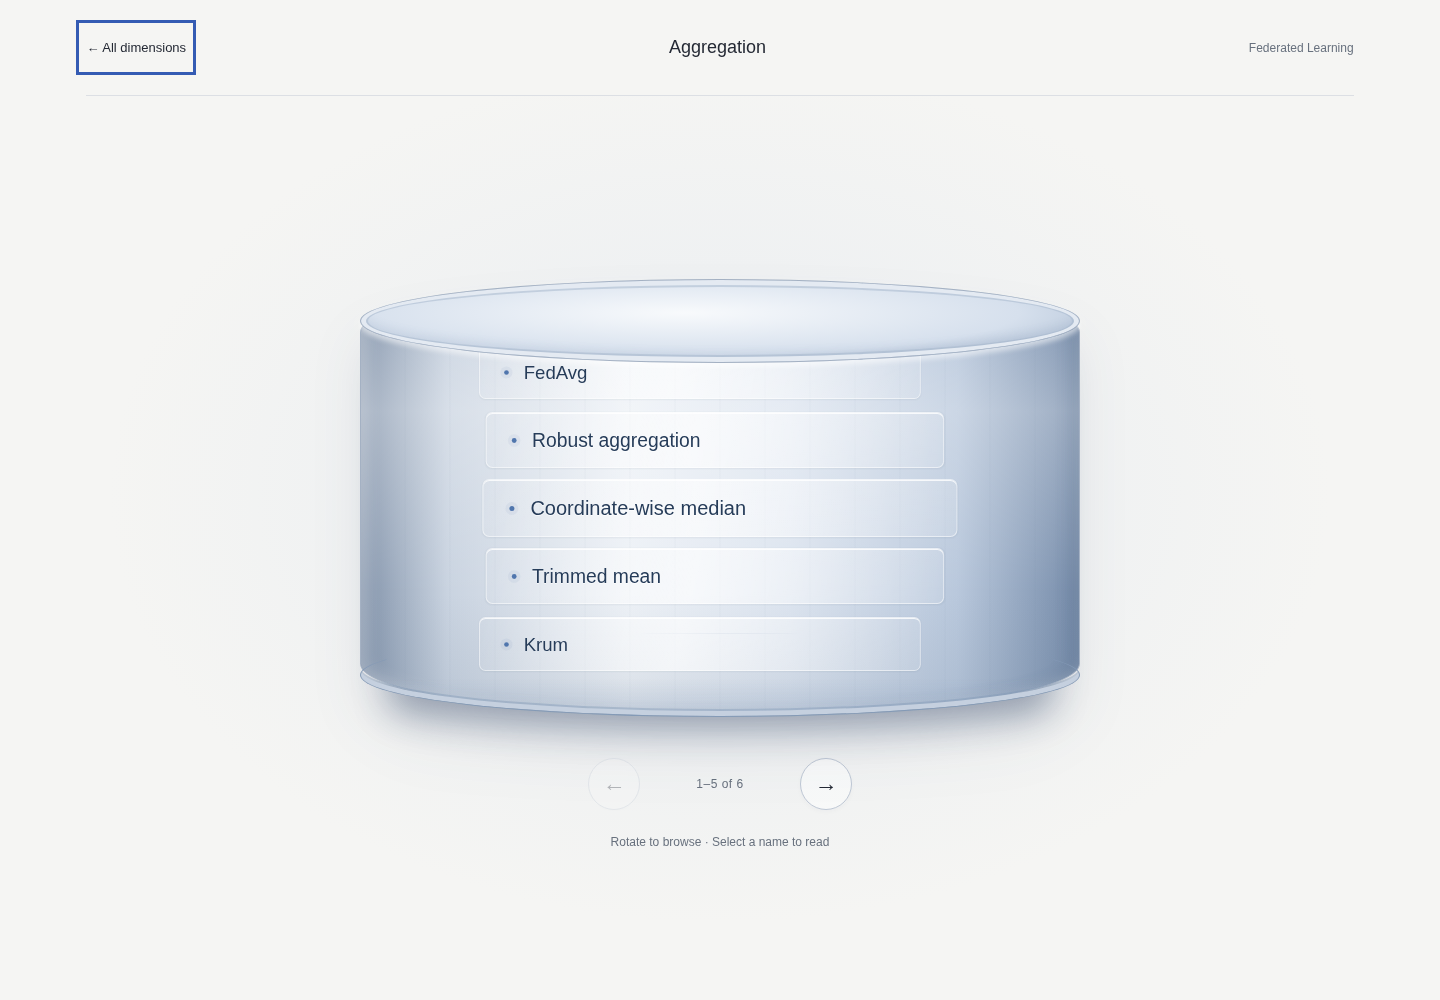
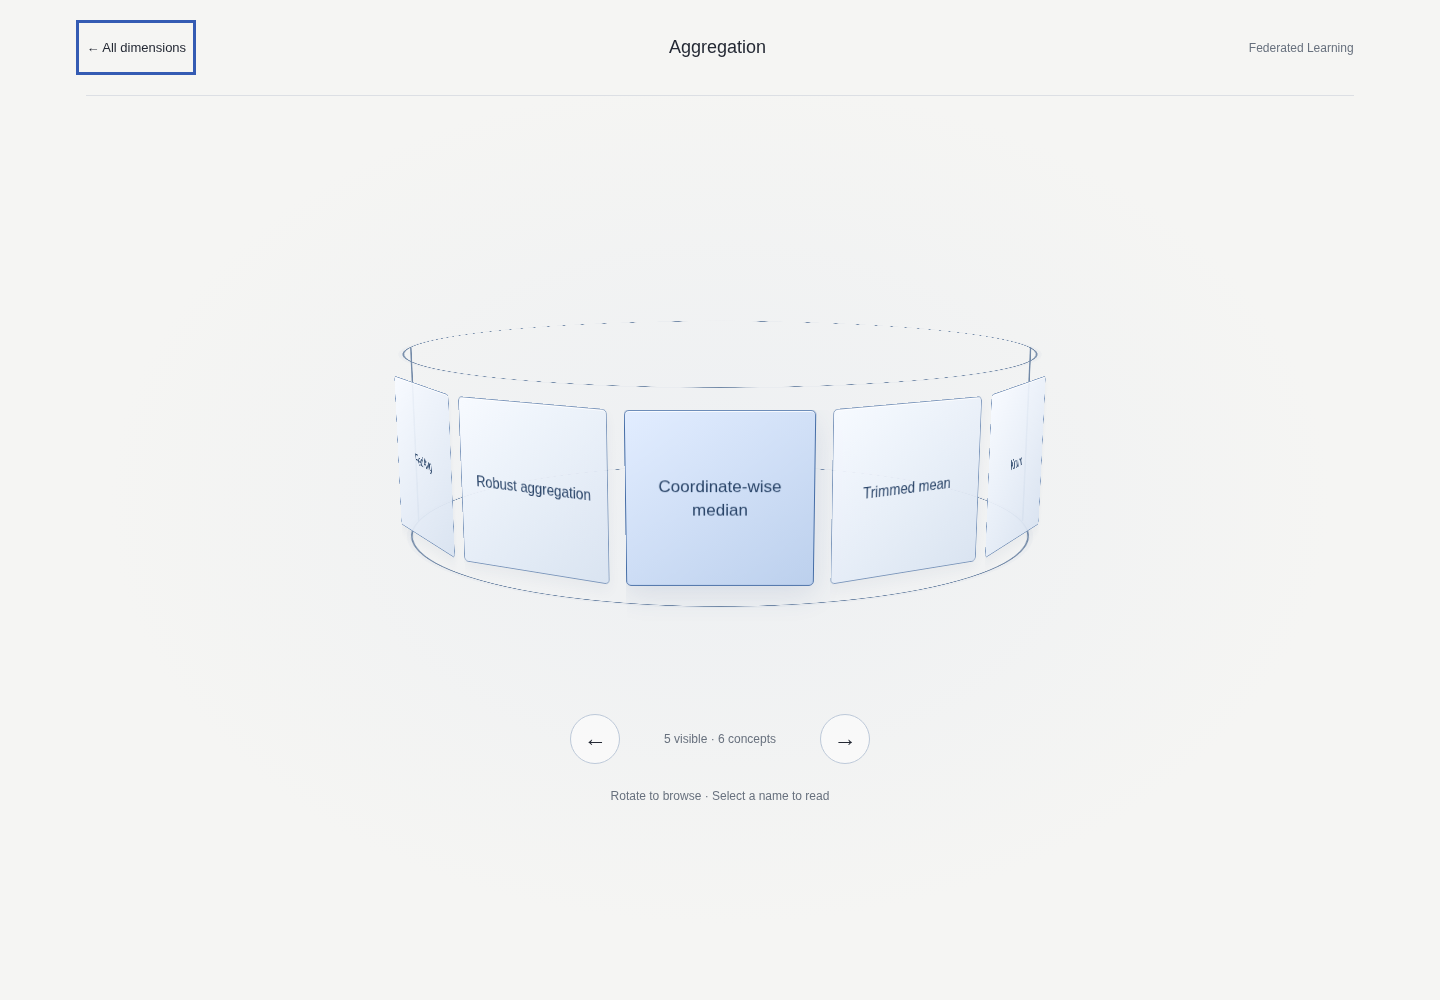
Use horizontal 3D ring carousel with outlined cylinder

Changed region(s): [[0.25, 0.279, 0.75, 0.806], [0.4375, 0.837, 0.5625, 0.868]]

diff --git a/website/docs/assets/atlas.css b/website/docs/assets/atlas.css
@@ -3,43 +3,23 @@
 @media(max-width:1350px){footer{margin:0 6%}.home{gap:6%}.layer{height:78px}}
 @media(max-width:760px){.masthead{height:76px}.edition{display:none}.home{grid-template-columns:1fr;padding:36px 6%;gap:30px}.home-copy{display:contents}.home-copy>.eyebrow{order:0}.intro{order:1}.intro h1{font-size:36px;margin-top:0}.intro p{font-size:14px}.object-area{order:2;height:470px;margin-top:5px}.feature-panel{order:3;max-width:none;margin-top:0;min-height:0}.cylinder{width:290px}.layer{height:65px;padding-left:23px;padding-right:23px}.layer:before{height:30px}.layer-name{font-size:12px}.object-base{width:250px;bottom:55px}.object-heading{padding-bottom:12px}.object-caption{font-size:10px}.document-page{padding:28px 6% 50px}.document-page article h1{font-size:34px}.document-page article{font-size:15px}.breadcrumbs{margin-bottom:32px}footer{margin:15px 6% 0;padding:22px 0;gap:8px}.brand{font-size:11px;gap:8px}.home-link{font-size:11px}}
 @media(prefers-reduced-motion:reduce){*,*:before,*:after{animation:none!important;transition:none!important;scroll-behavior:auto!important}}
-/* A selected layer expands into a full-screen cylinder with rotating labels. */
+/* Horizontal 3D ring carousel, with a wireframe cylinder enclosure. */
 .masthead .brand{font-size:19px;font-weight:500;letter-spacing:-.3px}
-#dimension-view{position:fixed;inset:0;width:100vw;height:100dvh;max-width:none;max-height:none;margin:0;padding:0;border:0;background:var(--bg);color:var(--ink);overflow:auto}
-#dimension-view::backdrop{background:var(--bg)}
-body.dimension-open{overflow:hidden}
+#dimension-view{position:fixed;inset:0;width:100vw;height:100dvh;max-width:none;max-height:none;margin:0;padding:0;border:0;background:var(--bg);color:var(--ink);overflow-x:hidden;overflow-y:auto}
+#dimension-view::backdrop{background:var(--bg)}body.dimension-open{overflow:hidden}
 .dimension-toolbar{height:96px;margin:0 6%;display:flex;align-items:center;justify-content:space-between;gap:20px;border-bottom:1px solid var(--line)}
-.dimension-toolbar button{padding:10px 0;border:0;background:transparent;color:var(--ink);font-size:13px}
-.dimension-toolbar h2{font-size:18px;font-weight:500;margin:0}
-.dimension-toolbar>span{font-size:12px;color:var(--muted)}
-.dimension-content{min-height:calc(100dvh - 96px);display:flex;flex-direction:column;align-items:center;justify-content:center;padding:60px 20px 75px}
-.drum-perspective{perspective:1400px;width:min(640px,76vw);height:360px}
-.drum-world{position:relative;width:100%;height:100%;transform-style:preserve-3d;--radius:280px}
-.drum-shell{position:absolute;inset:50px 0;background:linear-gradient(90deg,#496b9c,#91acd3 24%,#b9cae4 49%,#8da9d0 75%,#456795);border:1px solid #6f8db7;border-radius:50% / 14%;box-shadow:0 40px 50px -35px #263c6380,inset 0 -25px 35px #30527e22}
-.drum-shell:before,.drum-shell:after{content:'';position:absolute;left:-1px;right:-1px;height:70px;border:1px solid #6f8db7;border-radius:50%}
-.drum-shell:before{top:-1px;background:linear-gradient(140deg,#cfdbec,#8da9cf);z-index:1}
-.drum-shell:after{bottom:-1px;border-top-color:transparent;box-shadow:inset 0 -12px 20px #456b9520}
-.concept-rotor{position:absolute;inset:0;transform-style:preserve-3d;transition:transform 1s cubic-bezier(.22,.75,.2,1)}
-.rotating-concept{position:absolute;left:50%;top:52%;width:80%;text-align:center;transform:translate(-50%,-50%) rotateY(var(--angle)) translateZ(var(--radius));backface-visibility:hidden;text-decoration:none;font-size:clamp(22px,3.2vw,42px);font-weight:500;letter-spacing:-.8px;line-height:1.25;color:#1b3254;text-shadow:0 1px 0 #ffffff66;pointer-events:none}
-.rotating-concept.current{pointer-events:auto}.rotating-concept:hover{text-decoration:underline;text-underline-offset:8px}
-.rotor-rib{position:absolute;left:50%;top:32%;width:1px;height:43%;background:#36557f18;transform:rotateY(var(--angle)) translateZ(var(--radius));backface-visibility:hidden;pointer-events:none}
-.rotation-controls{display:flex;align-items:center;gap:35px;margin-top:20px}
-.rotation-controls button{width:52px;height:52px;border-radius:50%;border:1px solid #bfc8d5;background:transparent;color:var(--ink);font-size:23px;transition:background .2s}
-.rotation-controls button:hover{background:#e4e9f0}.rotation-controls button:disabled{opacity:.3;cursor:default}
-#rotation-position{font-size:12px;color:var(--muted);font-variant-numeric:tabular-nums;min-width:56px;text-align:center}
-.rotation-hint{font-size:12px;color:var(--muted);margin:25px 0 0}
-@media(max-width:760px){.dimension-toolbar{height:76px;gap:10px}.dimension-toolbar>span{display:none}.dimension-toolbar h2{font-size:16px}.dimension-toolbar button{font-size:12px}.dimension-content{min-height:calc(100dvh - 76px);padding:35px 15px 55px}.drum-perspective{width:82vw;height:270px;perspective:1000px}.drum-shell{inset:40px 0}.drum-shell:before,.drum-shell:after{height:48px}.rotating-concept{font-size:24px;letter-spacing:-.4px}.rotation-controls{margin-top:10px}.masthead .brand{font-size:18px}}
-/* A brushed-metal barrel with a five-name window across its curved face. */
-.dimension-content{background:radial-gradient(ellipse at 50% 44%,#e0e7f099,transparent 60%);padding:35px 20px 45px}
-.drum-perspective{width:min(720px,82vw);height:520px;perspective:1400px}
-.drum-world{filter:drop-shadow(0 30px 25px #23345314)}
-.drum-shell{inset:42px 0;border-color:#a4b1c3;border-radius:50% / 12%;background:repeating-linear-gradient(90deg,transparent 0px,transparent 43px,#5369840b 44px,transparent 45px),linear-gradient(0deg,#52698422,transparent 28%,#ffffff44 70%,transparent),linear-gradient(90deg,#8293aa 0%,#c9d3e0 12%,#edf1f6 37%,#dce4ef 60%,#b9c8dc 83%,#758ba9 100%);box-shadow:inset 6px 0 15px #ffffff50,inset -10px 0 15px #41567424,0 42px 35px -30px #20375b66}
-.drum-shell:before{height:82px;top:-2px;border-color:#a4b1c3;background:radial-gradient(ellipse at 45% 40%,#f8fafc,#d6e0ed 60%,#95a9c3);box-shadow:inset 0 0 0 5px #e4eaf2,inset 0 0 0 7px #a6b7cd88,inset 0 -8px 10px #5f789c22,0 4px 5px #ffffff88}
-.drum-shell:after{height:82px;bottom:-2px;border-color:transparent #849ab6 #849ab6;background:linear-gradient(0deg,#7d95b642,transparent 45%);box-shadow:inset 0 -5px 0 #c5d0df,inset 0 -7px 0 #7e95b466}
-.concept-rotor{transition:none}
-.rotating-concept{top:52%;left:50%;width:66%;padding:13px 26px;border:1px solid #ffffff88;border-radius:7px;background:linear-gradient(100deg,#ffffff12,#ffffffaa 45%,#ffffff22);box-shadow:0 1px 2px #273b5210,inset 0 1px 0 #ffffffcc;color:#263c59;text-align:left;text-shadow:0 1px 0 #ffffffaa;font-size:20px;letter-spacing:0;white-space:nowrap;overflow:hidden;text-overflow:ellipsis;line-height:1.5;transform:none;backface-visibility:visible;pointer-events:auto}
-.rotating-concept[hidden]{display:none}
-.rotating-concept:before{content:'';display:inline-block;width:5px;height:5px;margin:0 16px 4px 0;border-radius:50%;background:#5076ad;box-shadow:0 0 0 4px #5076ad12}
-.rotating-concept:hover{background:#f5f8fddd;border-color:#7190b9;text-decoration:none;box-shadow:0 5px 18px #30496918}
-.rotation-controls{margin-top:0;gap:25px}.rotation-controls button{background:#ffffff77;box-shadow:0 2px 5px #1b325407}#rotation-position{min-width:110px;font-size:12px;letter-spacing:.5px}
-@media(max-width:760px){.dimension-content{padding:24px 12px 35px}.drum-perspective{width:86vw;height:440px}.drum-shell{inset:32px 0}.drum-shell:before,.drum-shell:after{height:58px}.drum-shell:before{box-shadow:inset 0 0 0 3px #e4eaf2,inset 0 0 0 5px #a6b7cd88}.rotating-concept{width:82%;padding:11px 12px;font-size:14px}.rotating-concept:before{margin-right:10px;width:4px;height:4px;margin-bottom:3px}.rotation-hint{font-size:11px}.rotation-controls button{width:46px;height:46px}}
+.dimension-toolbar button{padding:10px 0;border:0;background:transparent;color:var(--ink);font-size:13px}.dimension-toolbar h2{font-size:18px;font-weight:500;margin:0}.dimension-toolbar>span{font-size:12px;color:var(--muted)}
+.dimension-content{min-height:calc(100dvh - 96px);display:flex;flex-direction:column;align-items:center;justify-content:center;padding:60px 10px;background:radial-gradient(ellipse at 50% 45%,#e5eaf280,transparent 60%)}
+.drum-perspective{perspective:1400px;width:min(1080px,92vw);height:410px}
+.drum-world{position:relative;width:100%;height:100%;transform-style:preserve-3d;transform:rotateX(-12deg);--radius:350px;--diameter:700px;--cell-width:170px;--cell-height:180px}
+.drum-shell{position:absolute;inset:0;transform:translateZ(calc(-1 * var(--radius)));transform-style:preserve-3d;pointer-events:none}
+.cylinder-rim{position:absolute;left:50%;top:50%;width:var(--diameter);height:var(--diameter);border:4px solid #526e94;border-radius:50%;transform:translate(-50%,-50%) translateY(var(--rim-y)) rotateX(90deg);box-shadow:0 0 0 5px #a5b6cd15}
+.rim-top{--rim-y:-112px}.rim-bottom{--rim-y:112px}
+.cylinder-edge{position:absolute;left:calc(50% + var(--edge-x));top:calc(50% - 112px);height:224px;border-left:2px solid #7289a7}
+.edge-left{--edge-x:calc(-1 * var(--radius))}.edge-right{--edge-x:var(--radius)}
+.concept-rotor{position:absolute;inset:0;transform-style:preserve-3d;transition:transform 850ms cubic-bezier(.22,.75,.2,1)}
+.rotating-concept{position:absolute;left:50%;top:50%;display:flex;align-items:center;justify-content:center;width:var(--cell-width);height:var(--cell-height);padding:15px 10px;border:1px solid #7f99bd;border-radius:5px;background:linear-gradient(145deg,#f7faffee,#d8e2f0ee);box-shadow:inset 0 1px 0 white,0 6px 15px #3049690c;color:#294468;text-align:center;text-decoration:none;font-size:17px;line-height:1.4;overflow:hidden;overflow-wrap:anywhere;transform:translate(-50%,-50%) rotateY(var(--angle)) translateZ(var(--radius));backface-visibility:hidden;opacity:0;pointer-events:none;transition:opacity .4s,border-color .2s,background .2s}
+.rotating-concept.visible{opacity:1;pointer-events:auto}.rotating-concept.front{background:linear-gradient(145deg,#e2edff,#bcd0ed);border-color:#456da6;box-shadow:inset 0 1px 0 white,0 10px 30px #345b9120}
+.rotating-concept.visible:hover{background:#c7dbf6;border-color:#345bb3;text-decoration:underline;text-underline-offset:4px}
+.rotation-controls{display:flex;align-items:center;gap:25px;margin-top:10px}.rotation-controls button{width:50px;height:50px;border:1px solid #bdc9d9;border-radius:50%;background:#ffffff88;color:var(--ink);font-size:23px;cursor:pointer}.rotation-controls button:hover{background:#e3eaf4}.rotation-controls button:disabled{opacity:.3;cursor:default}#rotation-position{font-size:12px;color:var(--muted);min-width:150px;text-align:center;font-variant-numeric:tabular-nums}.rotation-hint{font-size:12px;color:var(--muted);margin:25px 0 0}
+@media(max-width:760px){.dimension-toolbar{height:76px;gap:10px}.dimension-toolbar>span{display:none}.dimension-toolbar h2{font-size:16px}.dimension-toolbar button{font-size:12px}.dimension-content{min-height:calc(100dvh - 76px);padding:30px 4px 50px}.drum-perspective{width:98vw;height:300px;perspective:800px}.drum-world{--cell-height:140px}.rotating-concept{font-size:11px;padding:8px 3px;line-height:1.35}.rim-top{--rim-y:-88px}.rim-bottom{--rim-y:88px}.cylinder-edge{top:calc(50% - 88px);height:176px}.cylinder-rim{border-width:4px}.cylinder-edge{border-width:1px}.rotation-controls{gap:15px}.rotation-controls button{width:44px;height:44px}.rotation-hint{font-size:11px}.masthead .brand{font-size:18px}}

diff --git a/website/docs/assets/atlas.js b/website/docs/assets/atlas.js
@@ -16,6 +16,7 @@ const reducedMotion = matchMedia('(prefers-reduced-motion: reduce)');
 let panelAnimation;
 let zoomAnimation;
 let carouselIndex = 0;
+let carouselTurn = 0;
 const visibleLimit = 5;
 let conceptLinks = [];
 let lastSelected;
@@ -59,7 +60,9 @@ function openConcepts(item, index) {
   const entries = document.querySelector(`#concept-source [data-dimension="${item.id}"]`);
   document.querySelector('#concept-heading').textContent = item.title;
   conceptLinks = [...entries.children].map(link => link.cloneNode(true));
-  carouselIndex = 0;
+  carouselIndex = conceptLinks.length > visibleLimit ? 2 : 0;
+  carouselTurn = 0;
+  rotor.style.transition = 'none';
   rotor.replaceChildren();
   conceptLinks.forEach((link, i) => {
     link.className = 'rotating-concept';
@@ -68,76 +71,56 @@ function openConcepts(item, index) {
   });
   viewer.showModal();
   document.body.classList.add('dimension-open');
-  world.style.setProperty('--radius', `${world.clientWidth / 2}px`);
+  sizeCarousel();
   [...cylinder.children].forEach((button, i) => button.setAttribute('aria-expanded', String(i === index)));
   updateConcept();
+  rotor.getBoundingClientRect();
+  rotor.style.transition = '';
   if (!reducedMotion.matches) {
     zoomAnimation?.cancel();
-    const target = document.querySelector('.drum-shell').getBoundingClientRect();
+    const target = world.getBoundingClientRect();
     const x = origin.left + origin.width / 2 - target.left - target.width / 2;
     const y = origin.top + origin.height / 2 - target.top - target.height / 2;
     zoomAnimation = world.animate([
       { transform: `translate(${x}px, ${y}px) scale(${origin.width / target.width}, ${origin.height / target.height}) rotate(-8deg)` },
-      { transform: 'translate(0, 0) scale(1) rotate(0)' }
+      { transform: 'rotateX(-12deg)' }
     ], { duration: 850, easing: 'cubic-bezier(.16,1,.3,1)' });
     rotor.animate([{ opacity: 0 }, { opacity: 1 }], { duration: 300, delay: 500, fill: 'backwards' });
   }
 }
-function updateConcept(direction = 0) {
-  const count = Math.min(visibleLimit, conceptLinks.length);
-  const rowHeight = innerWidth <= 760 ? 58 : 68;
+function sizeCarousel() {
+  const radius = Math.round(world.clientWidth * .36);
+  world.style.setProperty('--radius', `${radius}px`);
+  world.style.setProperty('--diameter', `${radius * 2}px`);
+  world.style.setProperty('--cell-width', `${Math.round(2 * radius * Math.tan(Math.PI / 12) * .91)}px`);
+}
+function updateConcept() {
+  const total = conceptLinks.length;
   conceptLinks.forEach((link, i) => {
-    link.getAnimations().forEach(animation => animation.cancel());
-    const previousSlot = link.dataset.slot === undefined ? null : Number(link.dataset.slot);
-    const slot = i - carouselIndex;
-    const visible = slot >= 0 && slot < count;
-    link.hidden = !visible;
+    // Keep five adjacent faces at the front of a twelve-sided cylinder.
+    // Hidden faces recycle behind it as the ring turns, without moving rows.
+    const offset = total <= visibleLimit
+      ? i - (total - 1) / 2
+      : ((i - carouselIndex + total + Math.floor(total / 2)) % total) - Math.floor(total / 2);
+    const visible = total <= visibleLimit || Math.abs(offset) <= 2;
+    link.hidden = false;
     link.classList.toggle('visible', visible);
+    link.classList.toggle('front', Math.abs(offset) < .6);
+    link.style.setProperty('--angle', `${(carouselTurn + offset) * 30}deg`);
     link.tabIndex = visible ? 0 : -1;
     link.setAttribute('aria-hidden', String(!visible));
-    if (!visible) {
-      delete link.dataset.slot;
-      return;
-    }
-    const offset = slot - (count - 1) / 2;
-    const y = offset * rowHeight;
-    const x = -Math.pow(offset, 2) * 5;
-    const scale = 1 - Math.abs(offset) * .035;
-    const target = `translate(-50%, -50%) translate(${x}px, ${y}px) scale(${scale})`;
-    link.style.transform = target;
-    link.dataset.slot = slot;
-    if (direction && !reducedMotion.matches) {
-      const start = previousSlot === null
-        ? `translate(-50%, -50%) translate(${direction * 130}px, ${y + direction * rowHeight}px) rotateY(${direction * 65}deg) scale(.8)`
-        : `translate(-50%, -50%) translate(${x}px, ${y + direction * rowHeight}px) scale(${scale})`;
-      link.animate([
-        { transform: start, opacity: previousSlot === null ? 0 : 1 },
-        { transform: target, opacity: 1 }
-      ], { duration: 600, easing: 'cubic-bezier(.16,1,.3,1)' });
-    }
   });
-  document.querySelector('#rotation-position').textContent = conceptLinks.length
-    ? `${carouselIndex + 1}–${carouselIndex + count} of ${conceptLinks.length}`
+  rotor.style.transform = `translateZ(calc(-1 * var(--radius))) rotateY(${-carouselTurn * 30}deg)`;
+  document.querySelector('#rotation-position').textContent = total
+    ? `${Math.min(visibleLimit, total)} visible · ${total} concepts`
     : 'No concepts yet';
-  document.querySelector('#rotate-previous').disabled = carouselIndex === 0;
-  document.querySelector('#rotate-next').disabled = carouselIndex + count >= conceptLinks.length;
-  if (direction && !reducedMotion.matches) {
-    rotor.getAnimations().forEach(animation => animation.cancel());
-    rotor.animate([
-      { transform: `rotateY(${direction * -12}deg)` },
-      { transform: 'rotateY(0deg)' }
-    ], { duration: 600, easing: 'cubic-bezier(.16,1,.3,1)' });
-    document.querySelector('.drum-shell').animate([
-      { backgroundPosition: `${direction * 50}px 0, 0 0, 0 0` },
-      { backgroundPosition: '0 0, 0 0, 0 0' }
-    ], { duration: 600, easing: 'ease-out' });
-  }
+  document.querySelectorAll('.rotation-controls button').forEach(button => button.disabled = total <= visibleLimit);
 }
 function rotateConcept(direction) {
-  const next = Math.max(0, Math.min(carouselIndex + direction, conceptLinks.length - visibleLimit));
-  if (next === carouselIndex) return;
-  carouselIndex = next;
-  updateConcept(direction);
+  if (conceptLinks.length <= visibleLimit) return;
+  carouselTurn += direction;
+  carouselIndex = (carouselIndex + direction + conceptLinks.length) % conceptLinks.length;
+  updateConcept();
 }
 document.querySelector('#close-concepts').addEventListener('click', () => viewer.close());
 viewer.addEventListener('close', () => {
@@ -156,7 +139,7 @@ viewer.addEventListener('keydown', event => {
 });
 new ResizeObserver(() => {
   if (viewer.open) {
-    world.style.setProperty('--radius', `${world.clientWidth / 2}px`);
+    sizeCarousel();
     updateConcept();
   }
 }).observe(world);

diff --git a/website/theme/main.html b/website/theme/main.html
@@ -32,7 +32,10 @@
     <div class="dimension-content">
       <div class="drum-perspective">
         <div class="drum-world">
-          <div class="drum-shell" aria-hidden="true"></div>
+          <div class="drum-shell" aria-hidden="true">
+            <span class="cylinder-rim rim-top"></span><span class="cylinder-rim rim-bottom"></span>
+            <span class="cylinder-edge edge-left"></span><span class="cylinder-edge edge-right"></span>
+          </div>
           <nav id="concept-rotor" class="concept-rotor" aria-label="Concepts"></nav>
         </div>
       </div>

diff --git a/website/README.md b/website/README.md
@@ -1,6 +1,6 @@
 # FL Fieldnotes — survey website
 
-A MkDocs website for a comprehensive federated learning survey. Selecting a dimension magnifies its layer into a cylinder showing up to five clickable concept names. With more than five concepts, arrow controls move the visible window by one name. All dimensions or Escape returns to the stack. Explore all opens the generated full listing.
+A MkDocs website for a comprehensive federated learning survey. Selecting a dimension magnifies its layer into a cylinder showing up to five clickable concept names. With more than five concepts, arrow controls rotate the horizontal 3D ring by one face, looping through all names. A wireframe border outlines the cylinder. All dimensions or Escape returns to the stack. Explore all opens the generated full listing.
 
 Concept details are still placeholder text. The homepage and dimension descriptions explain the intended scope.
 
@@ -51,3 +51,5 @@ website/.venv/bin/mkdocs build --strict -f website/mkdocs.yml
 ```
 
 The generated website is in `website/site/`, which is ignored by Git. The repository-root `index.html` redirects to this folder for local use after building. GitHub Pages publishes the built output directly, so the public homepage opens without this local redirect.
+
+Motion reference: [David DeSandro’s horizontal 3D carousel](https://3dtransforms.desandro.com/carousel). Concept names replace image panels.
